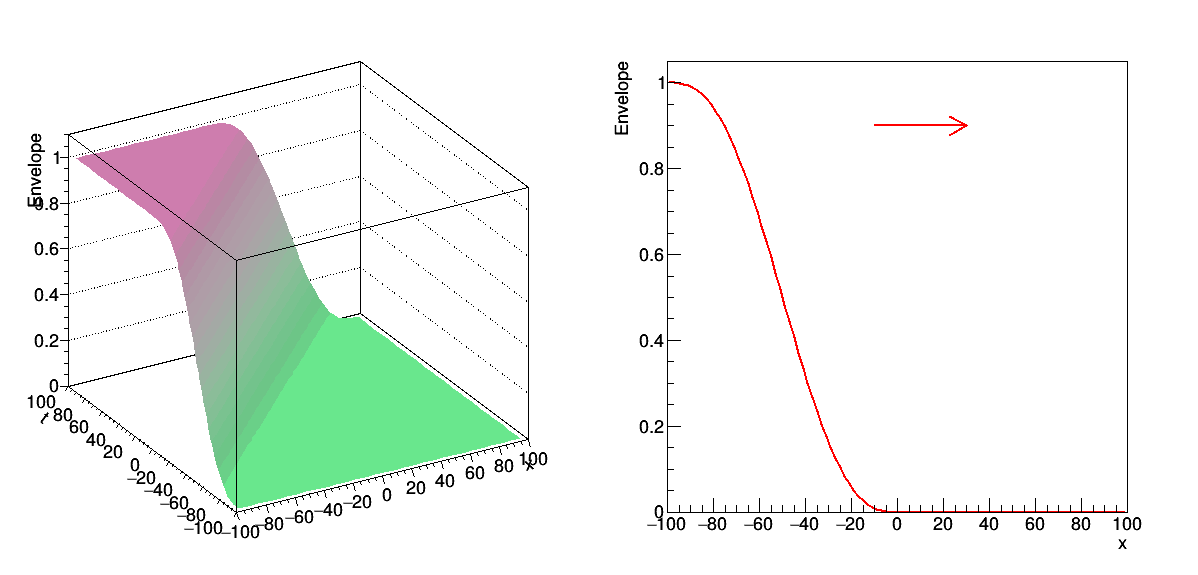
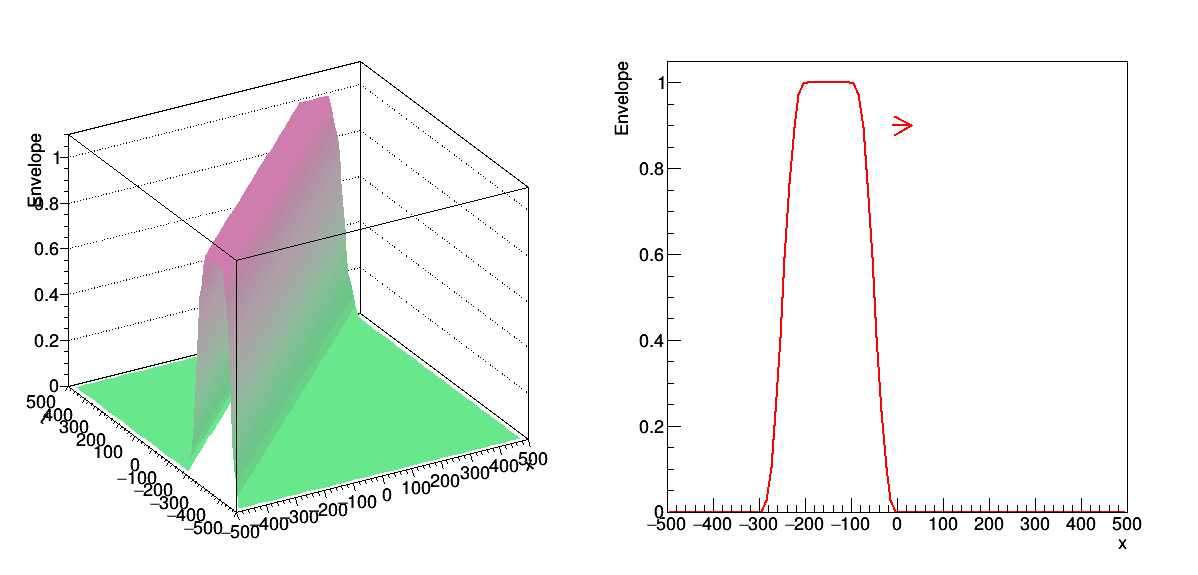
slow pulse entry

diff --git a/rk4_marija/envelope.cpp b/rk4_marija/envelope.cpp
@@ -33,11 +33,11 @@ double myfunc2(double* x, double* par){
 void envelope(){
 
 
-	TF2* f1 = new TF2("f1", myfunc1, -100, 100, -100, 100, 0);
+	TF2* f1 = new TF2("f1", myfunc1, -500, 500, -500, 500, 0);
 	f1->SetTitle(";x;t;Envelope");
 	gStyle->SetPalette(kMint);
 
-	TF1* f2 = new TF1("f2", myfunc2, -100, 100, 1);
+	TF1* f2 = new TF1("f2", myfunc2, -500, 500, 1);
 	f2->SetParameter(0,0);
 	f2->SetTitle(";x;Envelope");
 
